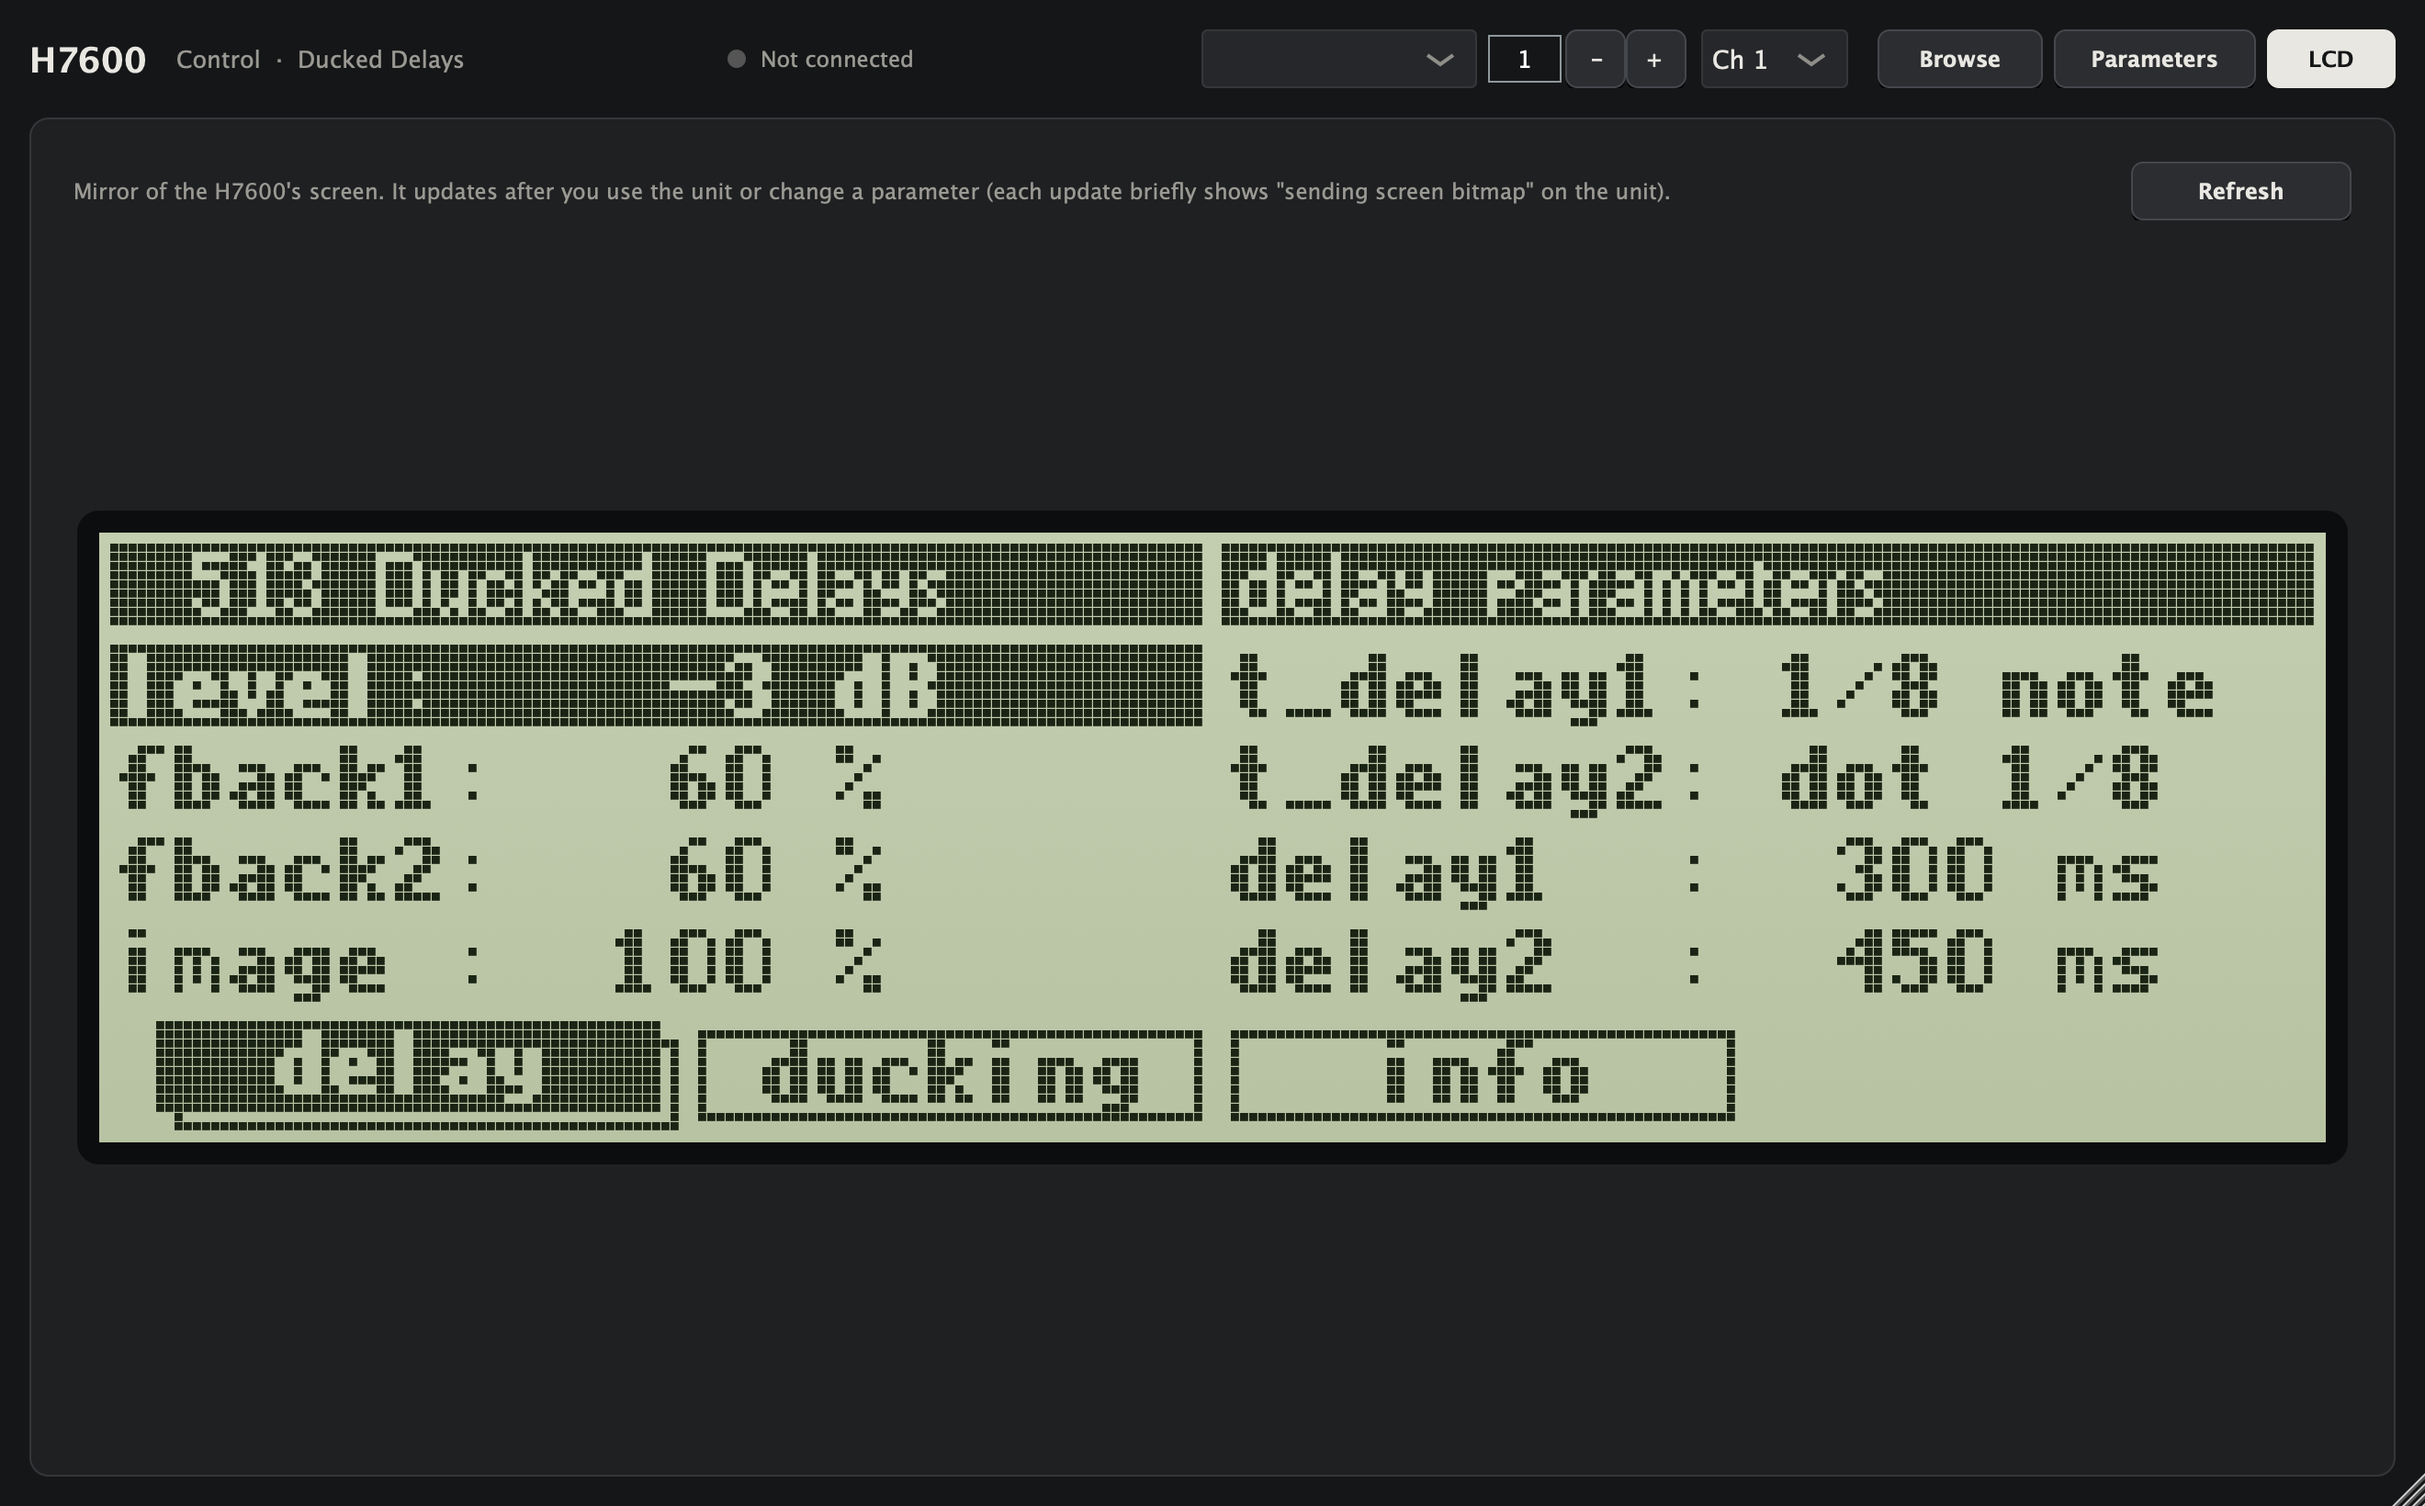
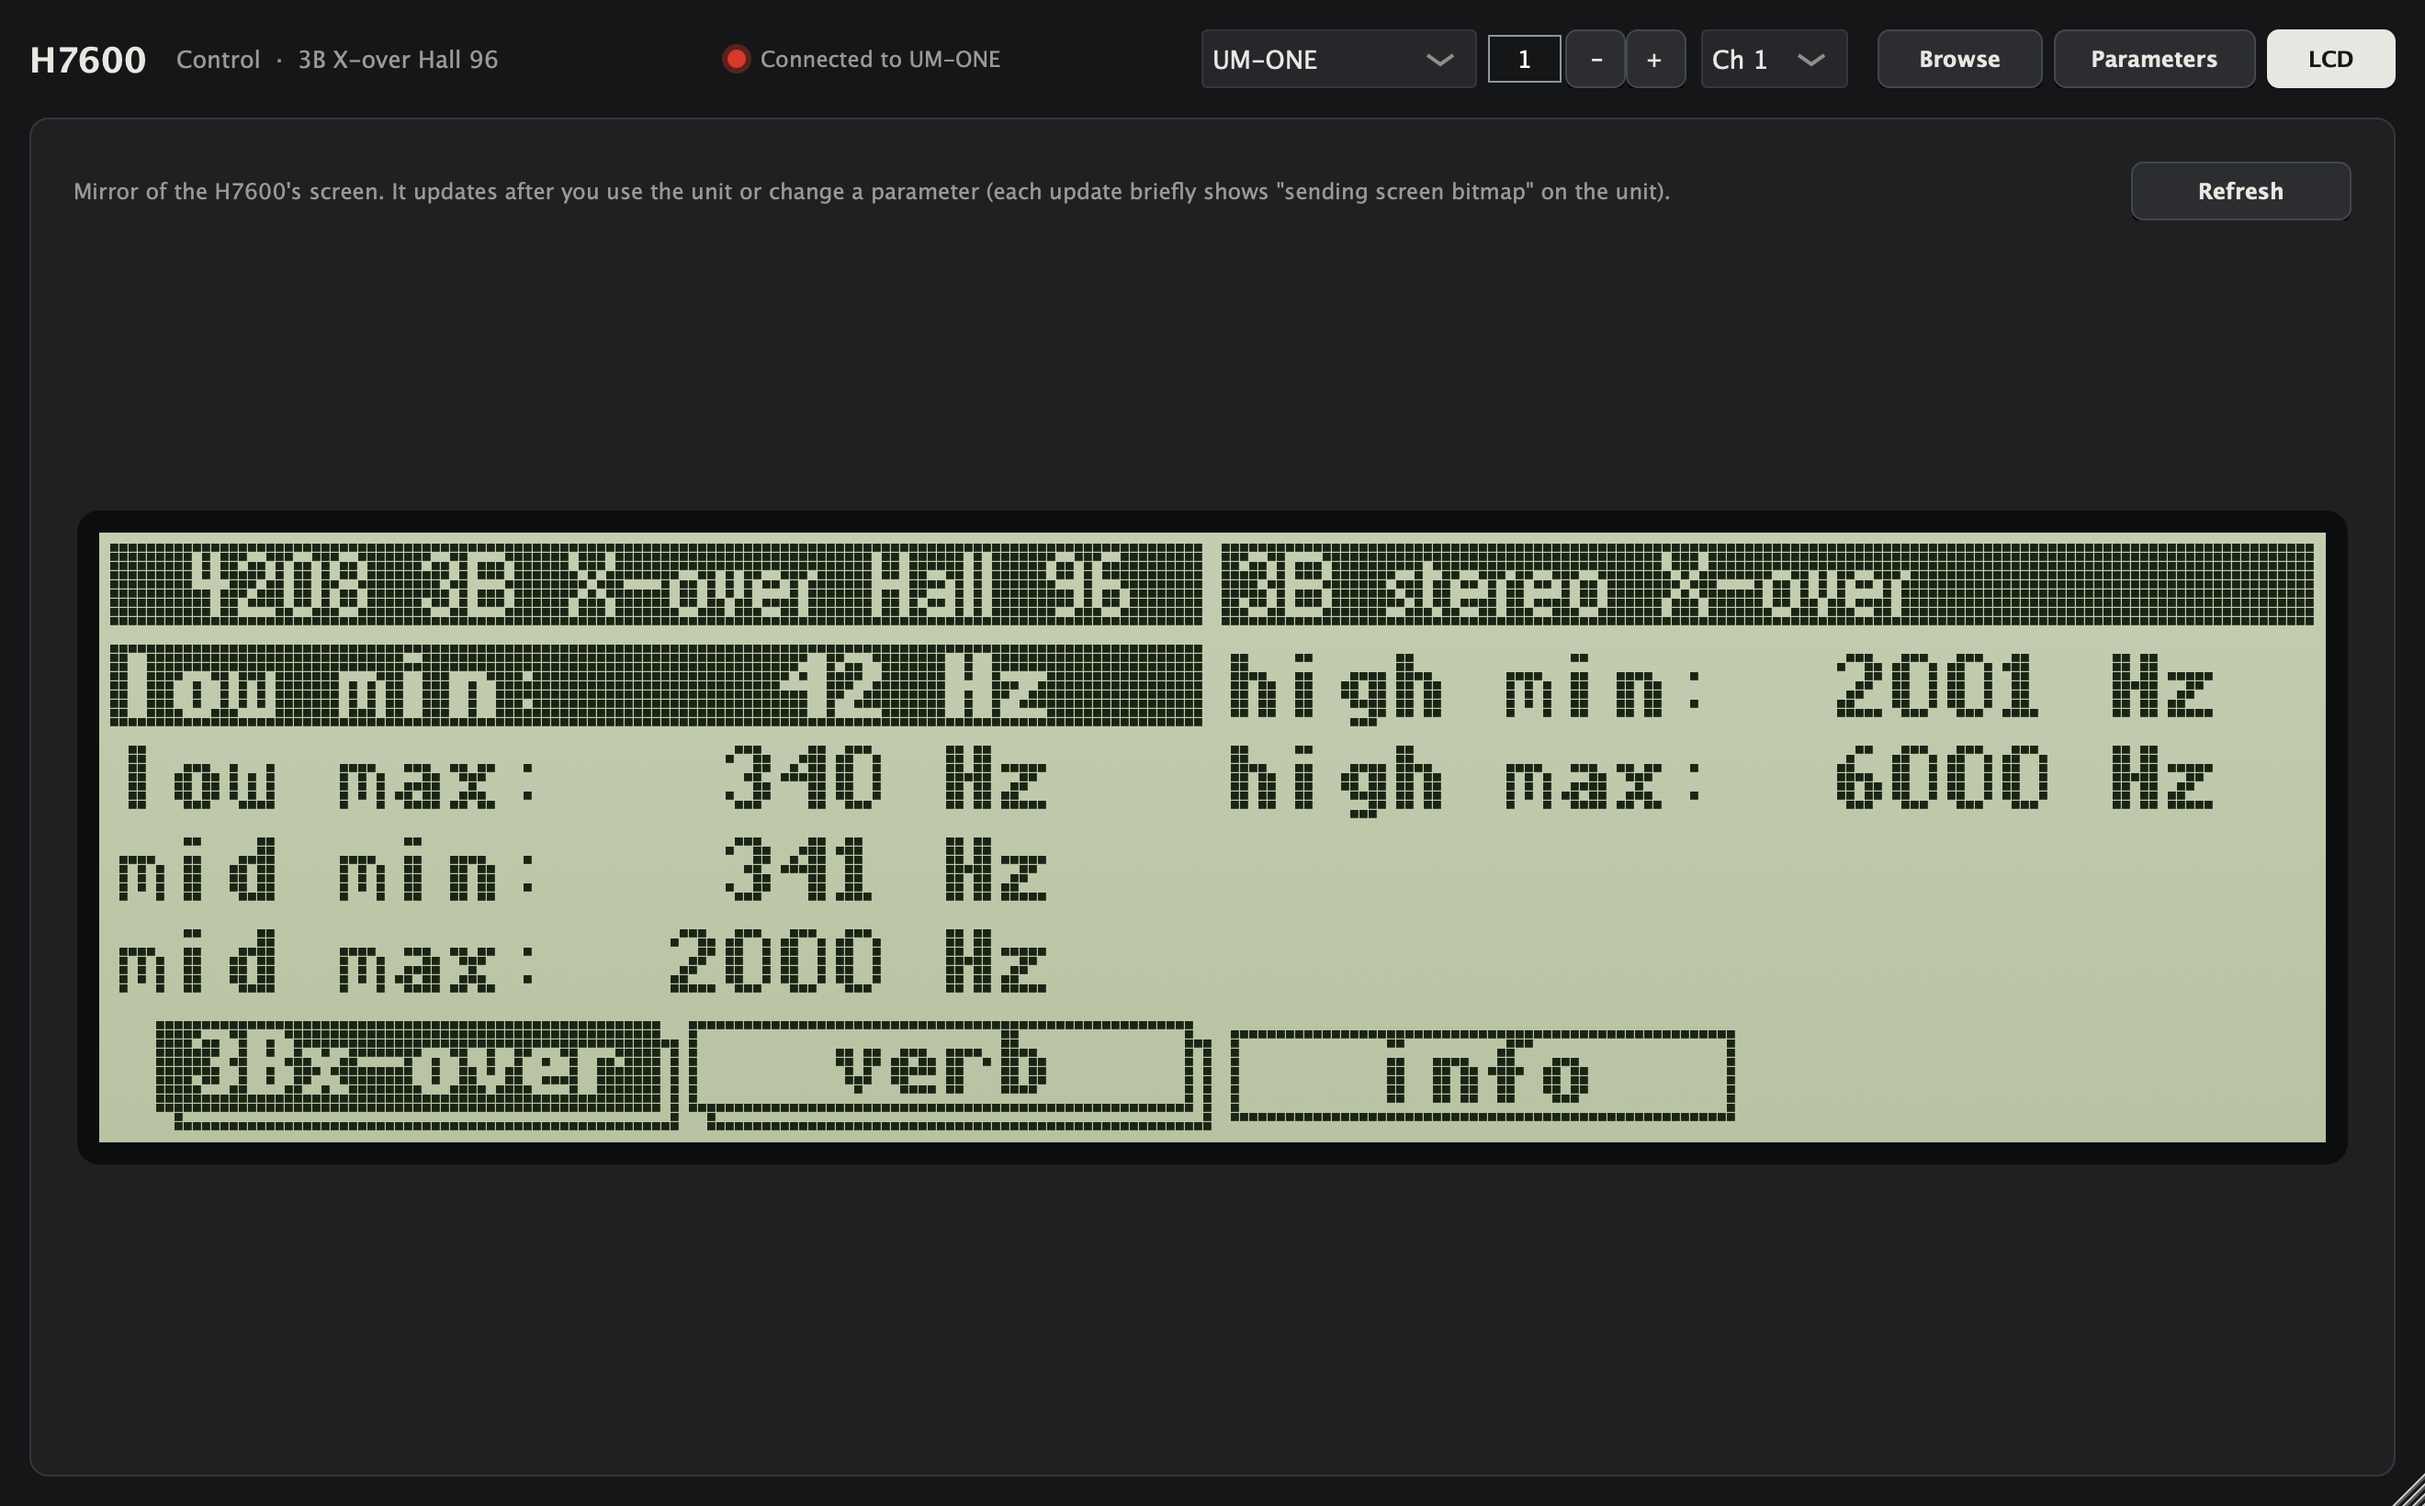
README: live screenshots from the unit (read-only capture)

diff --git a/README.md b/README.md
@@ -165,9 +165,11 @@ at 2x without needing screen-recording permission:
 | `--param <knob> <value>` | changes a parameter | moves a control through the UI and reads the value back |
 | `--lcd <seconds>` | reads only | counts screen dumps while the LCD page sits idle |
 
-To refresh the README screenshots:
+The README screenshots were taken live with `--screenshots` (read-only). Without a unit, `--fixtures`
+renders the same pages from captured messages:
 
 ```bash
+build/plugin/H7600Snapshot_artefacts/Release/H7600Snapshot docs/screenshots --screenshots
 build/plugin/H7600Snapshot_artefacts/Release/H7600Snapshot docs/screenshots --fixtures tests/fixtures
 ```
 
